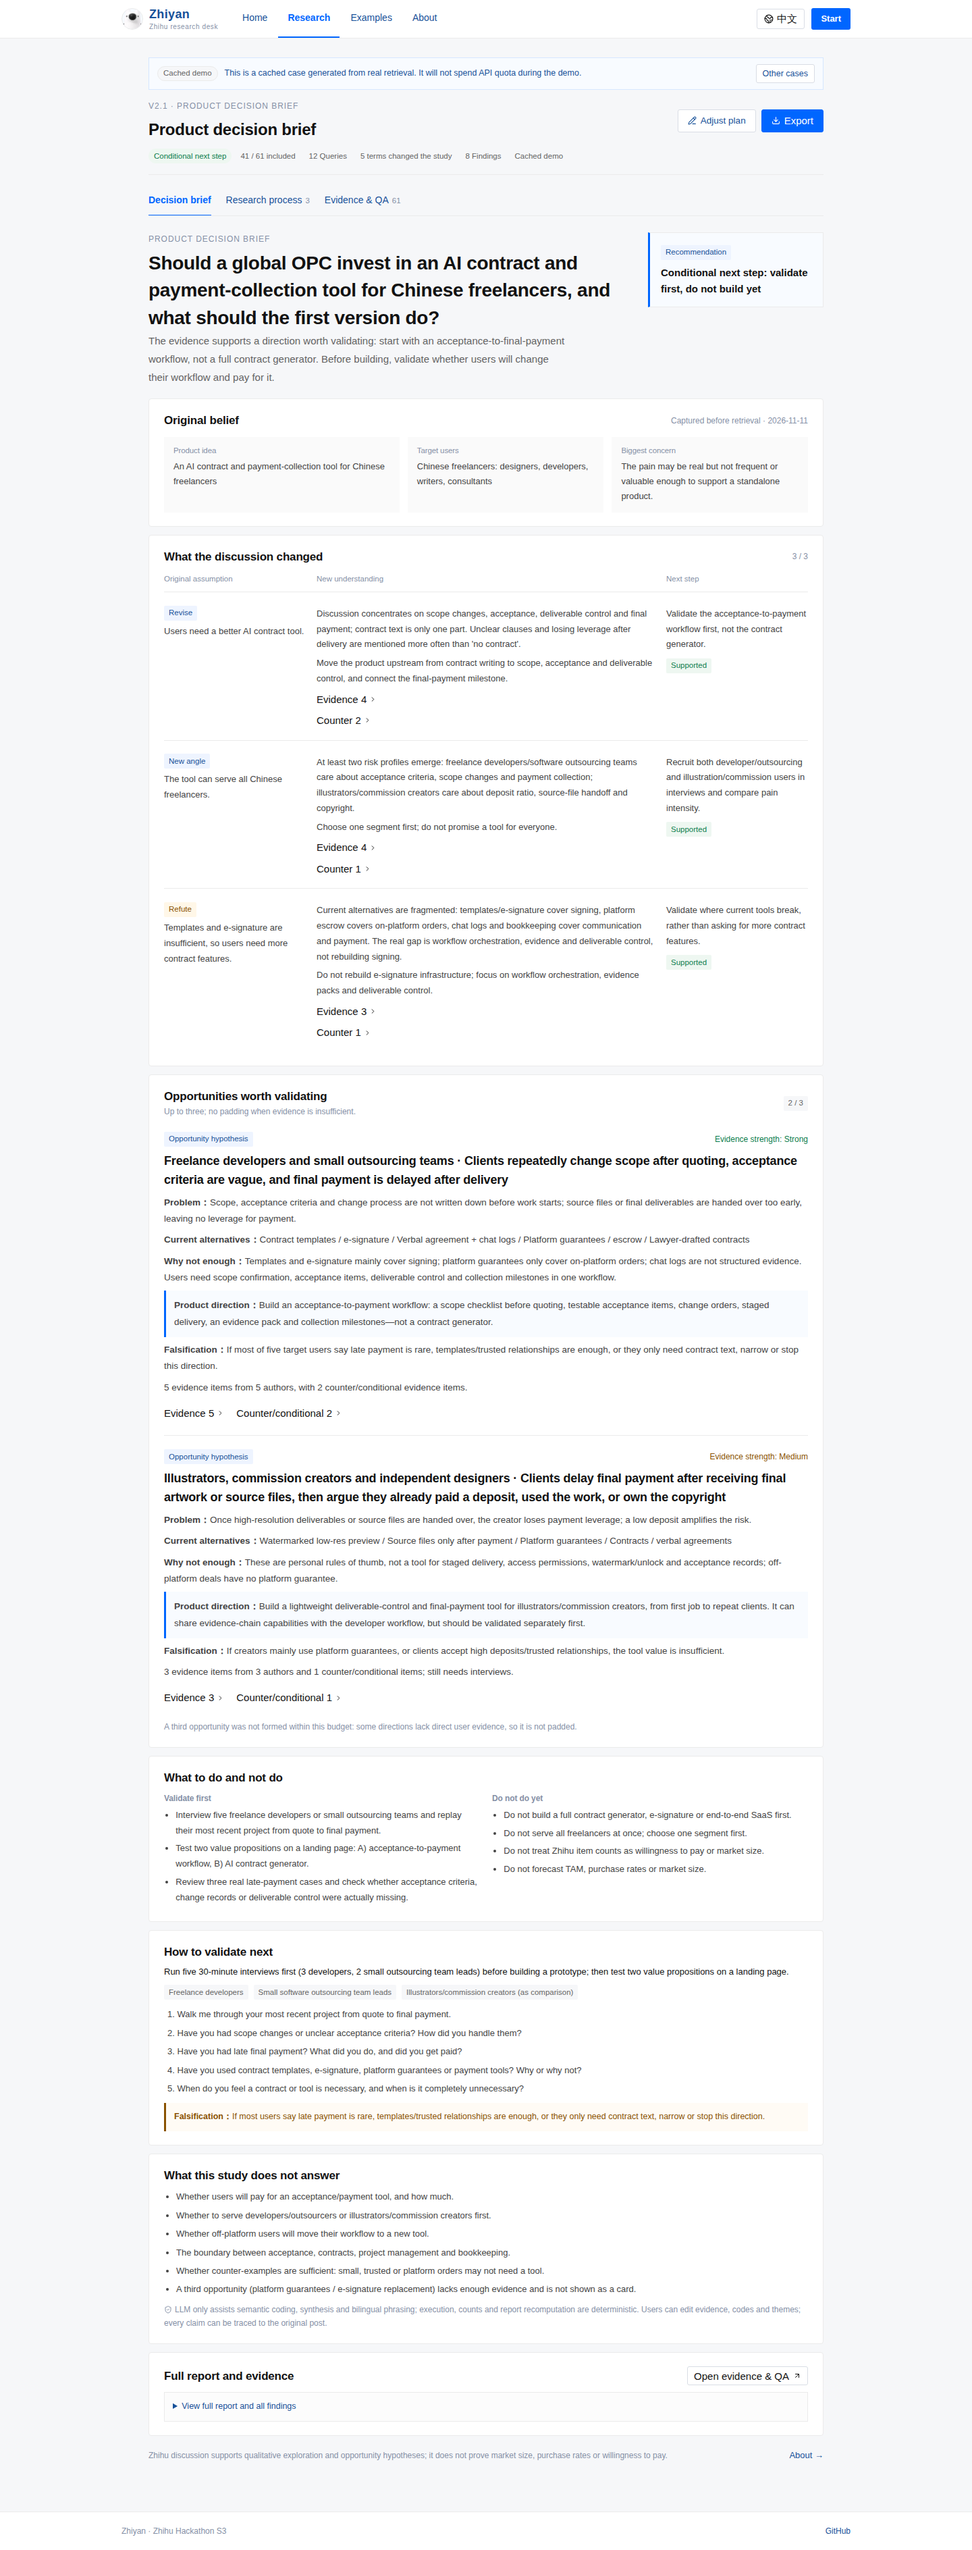
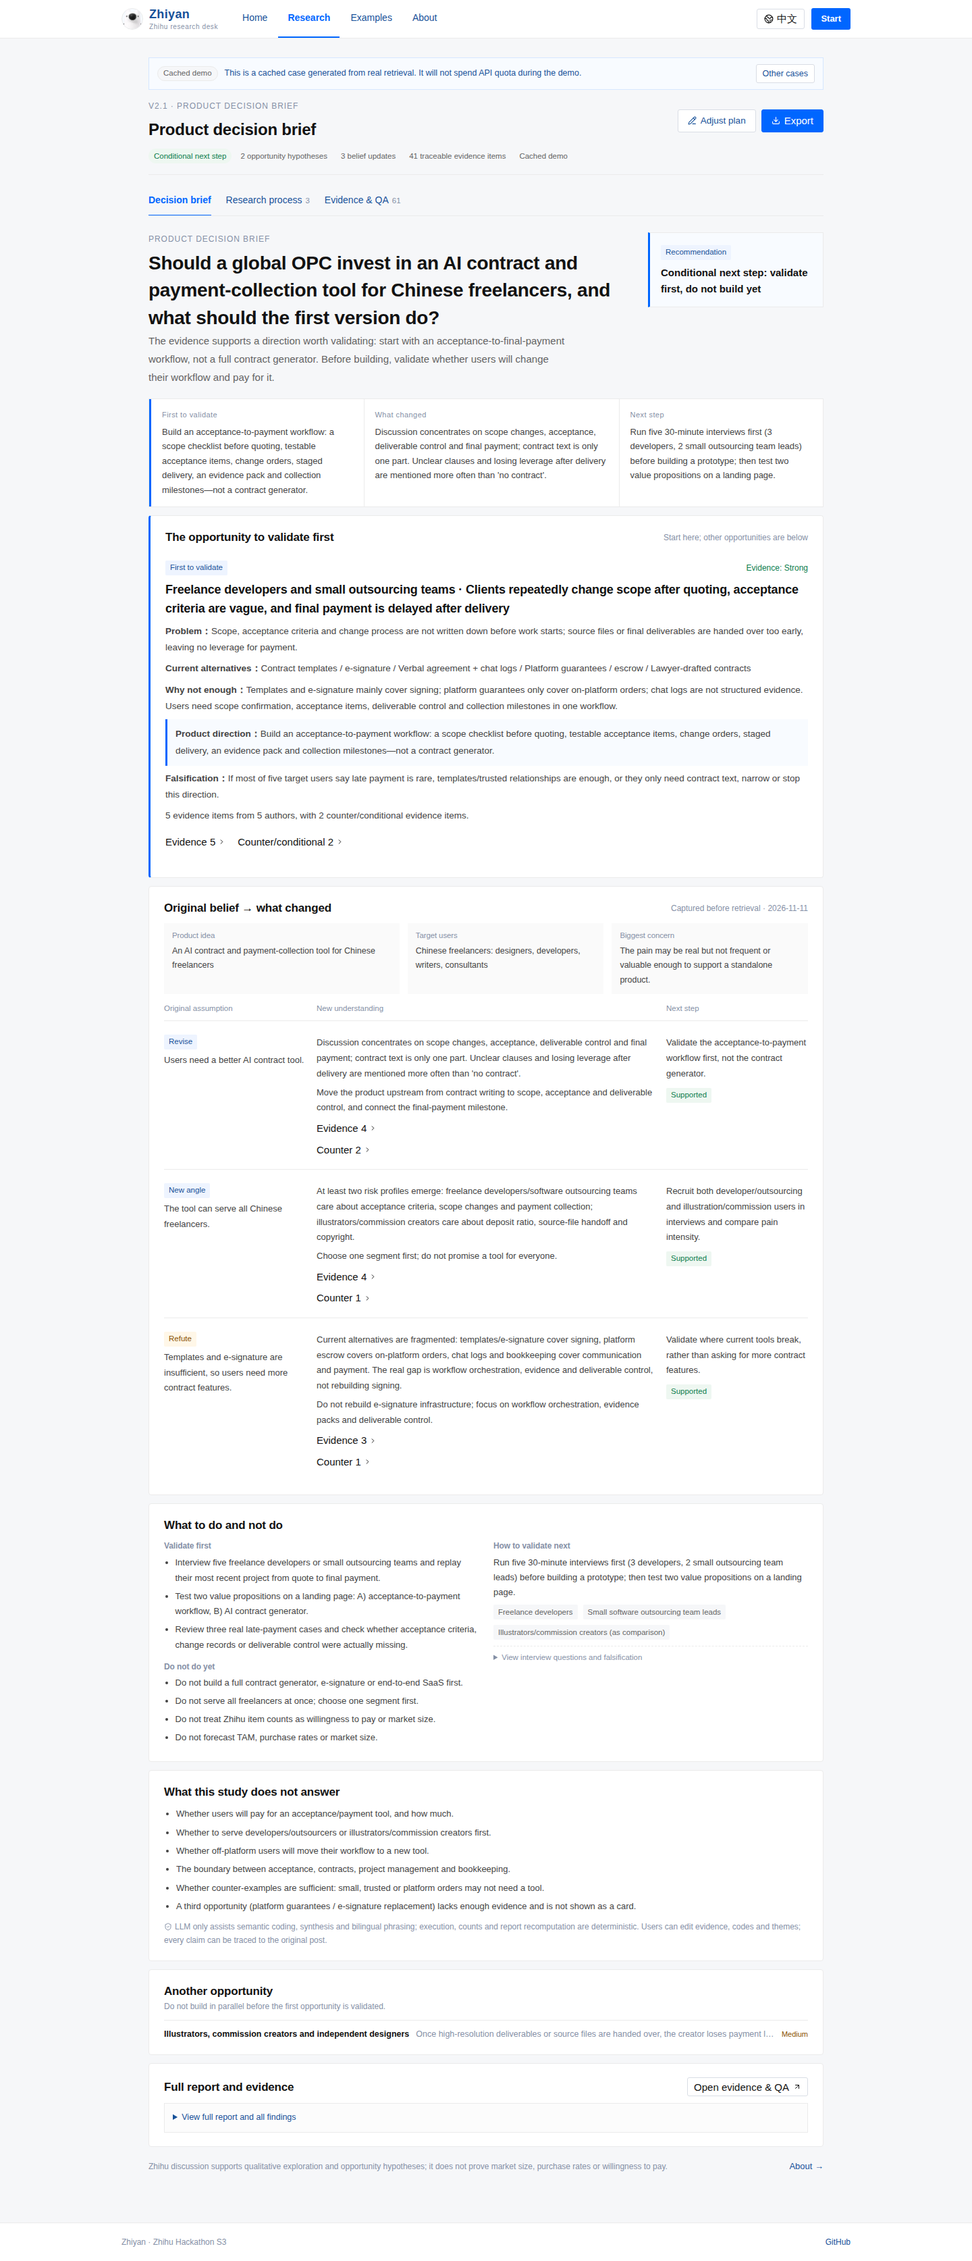
Improve V2.1 information hierarchy for decision makers
- Put a three-cell glance strip above the fold: what to validate first,
  what changed, and the next validation step
- Promote the lead opportunity into the first content card; move the
  second opportunity into a collapsed section
- Merge original belief and belief updates into one compact block
- Merge do/do-not and next validation into one action block
- Demote research metrics from the page header to process/evidence tabs
- Update screenshots and acceptance notes

diff --git a/app/workbench/views-v21.tsx b/app/workbench/views-v21.tsx
@@ -67,10 +67,36 @@ function EvidenceItem({ item, lang }: { item: BriefEvidence; lang: "zh" | "en" }
   );
 }
 
+function OpportunityCard({ card, brief, lang, lead = false }: { card: OpportunityHypothesisV21; brief: DecisionBriefV21; lang: "zh" | "en"; lead?: boolean }) {
+  return (
+    <article className={`v21-opportunity${lead ? " is-lead" : ""}`} data-testid="v21-opportunity">
+      <div className="v21-opportunity-head">
+        <span className="v2-tag v2-tag-blue">{lead ? local(lang, "最值得先验证", "First to validate") : local(lang, "机会假设", "Opportunity hypothesis")}</span>
+        <span className={`v21-strength ${card.evidenceStrength}`}>{local(lang, "证据强度", "Evidence")}: {strengthLabel(lang, card.evidenceStrength)}</span>
+      </div>
+      <h3>{lang === "zh" ? `${card.targetUserZh} · ${card.scenarioZh}` : `${card.targetUserEn} · ${card.scenarioEn}`}</h3>
+      <p><b>{local(lang, "问题", "Problem")}：</b>{lang === "zh" ? card.problemZh : card.problemEn}</p>
+      <p><b>{local(lang, "现有替代方案", "Current alternatives")}：</b>{(lang === "zh" ? card.currentAlternativesZh : card.currentAlternativesEn).join(" / ")}</p>
+      <p><b>{local(lang, "为什么仍不够", "Why not enough")}：</b>{lang === "zh" ? card.whyAlternativesInsufficientZh : card.whyAlternativesInsufficientEn}</p>
+      <p className="v21-direction"><b>{local(lang, "可能的产品方向", "Product direction")}：</b>{lang === "zh" ? card.productDirectionZh : card.productDirectionEn}</p>
+      <p><b>{local(lang, "证伪条件", "Falsification")}：</b>{lang === "zh" ? card.falsificationSignalZh : card.falsificationSignalEn}</p>
+      <p className="v2-mini v2-muted">{lang === "zh" ? card.strengthReasonZh : card.strengthReasonEn}</p>
+      <div className="v21-evidence-row">
+        <EvidenceList brief={brief} ids={card.evidenceIds} lang={lang} title={local(lang, "支持证据", "Evidence")} />
+        <EvidenceList brief={brief} ids={card.counterIds} lang={lang} title={local(lang, "反例/条件", "Counter/conditional")} />
+      </div>
+    </article>
+  );
+}
+
 export function DecisionBriefView({ brief, study, onOpenEvidence }: { brief: DecisionBriefV21; study: StudyV2; onOpenEvidence: () => void }) {
   const { lang } = useLang();
   const beliefs = brief.beliefUpdates.slice(0, 3);
   const opportunities = brief.opportunities.filter((item) => !item.hidden).slice(0, 3);
+  const lead = opportunities[0];
+  const others = opportunities.slice(1);
+  const firstUpdate = beliefs[0];
+  const nextTest = lang === "zh" ? brief.nextValidation.cheapestTestZh : brief.nextValidation.cheapestTestEn;
   return (
     <div className="v2-stack">
       <section className="v21-brief-hero">
@@ -85,22 +111,40 @@ export function DecisionBriefView({ brief, study, onOpenEvidence }: { brief: Dec
         </div>
       </section>
 
-      <section className="v2-card v2-card-pad">
-        <div className="v2-between">
-          <h2 style={{ fontSize: 17 }}>{local(lang, "原来的想法", "Original belief")}</h2>
-          <span className="v2-mini v2-muted">{local(lang, "检索前捕获", "Captured before retrieval")} · {brief.initialBelief.capturedAt.slice(0, 10)}</span>
+      <section className="v21-at-a-glance" data-testid="v21-glance">
+        <div>
+          <span className="v21-glance-label">{local(lang, "最值得先验证", "First to validate")}</span>
+          <strong>{lead ? (lang === "zh" ? lead.productDirectionZh : lead.productDirectionEn) : local(lang, "暂无足够证据", "Not enough evidence")}</strong>
         </div>
-        <div className="v21-belief-original">
-          <div><h4>{local(lang, "产品想法", "Product idea")}</h4><p>{lang === "zh" ? brief.initialBelief.productIdeaZh : brief.initialBelief.productIdeaEn}</p></div>
-          <div><h4>{local(lang, "目标人群", "Target users")}</h4><p>{(lang === "zh" ? brief.initialBelief.targetUsersZh : brief.initialBelief.targetUsersEn).join(" / ")}</p></div>
-          <div><h4>{local(lang, "最担心", "Biggest concern")}</h4><p>{lang === "zh" ? brief.initialBelief.concernsZh[0] : brief.initialBelief.concernsEn[0]}</p></div>
+        <div>
+          <span className="v21-glance-label">{local(lang, "讨论改变了什么", "What changed")}</span>
+          <strong>{firstUpdate ? (lang === "zh" ? firstUpdate.newUnderstandingZh : firstUpdate.newUnderstandingEn) : "—"}</strong>
+        </div>
+        <div>
+          <span className="v21-glance-label">{local(lang, "下一步", "Next step")}</span>
+          <strong>{nextTest}</strong>
         </div>
       </section>
 
+      {lead ? (
+        <section className="v2-card v2-card-pad v21-lead-opp">
+          <div className="v2-between" style={{ marginBottom: 2 }}>
+            <h2 style={{ fontSize: 17 }}>{local(lang, "现在最值得验证的机会", "The opportunity to validate first")}</h2>
+            <span className="v2-mini v2-muted">{local(lang, "先看这一张，其他机会在下方", "Start here; other opportunities are below")}</span>
+          </div>
+          <OpportunityCard card={lead} brief={brief} lang={lang} lead />
+        </section>
+      ) : null}
+
       <section className="v2-card v2-card-pad">
         <div className="v2-between">
-          <h2 style={{ fontSize: 17 }}>{local(lang, "讨论带来的新理解", "What the discussion changed")}</h2>
-          <span className="v2-mini v2-muted">{beliefs.length} / 3</span>
+          <h2 style={{ fontSize: 17 }}>{local(lang, "原来的想法 → 讨论后的新理解", "Original belief → what changed")}</h2>
+          <span className="v2-mini v2-muted">{local(lang, "检索前捕获", "Captured before retrieval")} · {brief.initialBelief.capturedAt.slice(0, 10)}</span>
+        </div>
+        <div className="v21-belief-original v21-original-compact">
+          <div><h4>{local(lang, "产品想法", "Product idea")}</h4><p>{lang === "zh" ? brief.initialBelief.productIdeaZh : brief.initialBelief.productIdeaEn}</p></div>
+          <div><h4>{local(lang, "目标人群", "Target users")}</h4><p>{(lang === "zh" ? brief.initialBelief.targetUsersZh : brief.initialBelief.targetUsersEn).join(" / ")}</p></div>
+          <div><h4>{local(lang, "最担心", "Biggest concern")}</h4><p>{lang === "zh" ? brief.initialBelief.concernsZh[0] : brief.initialBelief.concernsEn[0]}</p></div>
         </div>
         <div className="v21-belief-table">
           <div className="v21-belief-head"><span>{local(lang, "原来的假设", "Original assumption")}</span><span>{local(lang, "新理解", "New understanding")}</span><span>{local(lang, "所以下一步", "Next step")}</span></div>
@@ -120,53 +164,29 @@ export function DecisionBriefView({ brief, study, onOpenEvidence }: { brief: Dec
       </section>
 
       <section className="v2-card v2-card-pad">
-        <div className="v2-between">
-          <div>
-            <h2 style={{ fontSize: 17 }}>{local(lang, "值得验证的机会", "Opportunities worth validating")}</h2>
-            <p className="v2-mini v2-muted">{local(lang, "最多三张；证据不足不凑数。", "Up to three; no padding when evidence is insufficient.")}</p>
-          </div>
-          <span className="v2-tag">{opportunities.length} / 3</span>
-        </div>
-        {opportunities.map((card) => (
-          <article className="v21-opportunity" key={card.id} data-testid="v21-opportunity">
-            <div className="v21-opportunity-head">
-              <span className="v2-tag v2-tag-blue">{local(lang, "机会假设", "Opportunity hypothesis")}</span>
-              <span className={`v21-strength ${card.evidenceStrength}`}>{local(lang, "证据强度", "Evidence strength")}: {strengthLabel(lang, card.evidenceStrength)}</span>
-            </div>
-            <h3>{lang === "zh" ? `${card.targetUserZh} · ${card.scenarioZh}` : `${card.targetUserEn} · ${card.scenarioEn}`}</h3>
-            <p><b>{local(lang, "问题", "Problem")}：</b>{lang === "zh" ? card.problemZh : card.problemEn}</p>
-            <p><b>{local(lang, "现有替代方案", "Current alternatives")}：</b>{(lang === "zh" ? card.currentAlternativesZh : card.currentAlternativesEn).join(" / ")}</p>
-            <p><b>{local(lang, "为什么仍不够", "Why not enough")}：</b>{lang === "zh" ? card.whyAlternativesInsufficientZh : card.whyAlternativesInsufficientEn}</p>
-            <p className="v21-direction"><b>{local(lang, "可能的产品方向", "Product direction")}：</b>{lang === "zh" ? card.productDirectionZh : card.productDirectionEn}</p>
-            <p><b>{local(lang, "证伪条件", "Falsification")}：</b>{lang === "zh" ? card.falsificationSignalZh : card.falsificationSignalEn}</p>
-            <p className="v2-mini v2-muted">{lang === "zh" ? card.strengthReasonZh : card.strengthReasonEn}</p>
-            <div className="v21-evidence-row">
-              <EvidenceList brief={brief} ids={card.evidenceIds} lang={lang} title={local(lang, "支持证据", "Evidence")} />
-              <EvidenceList brief={brief} ids={card.counterIds} lang={lang} title={local(lang, "反例/条件", "Counter/conditional")} />
-            </div>
-          </article>
-        ))}
-        {opportunities.length < 3 ? <p className="v2-mini v2-muted">{local(lang, "本预算内未形成第三个机会：部分方向的直接用户证据不足，不凑数。", "A third opportunity was not formed within this budget: some directions lack direct user evidence, so it is not padded.")}</p> : null}
-      </section>
-
-      <section className="v2-card v2-card-pad">
         <h2 style={{ fontSize: 17 }}>{local(lang, "建议做什么，不做什么", "What to do and not do")}</h2>
-        <div className="v21-do-grid">
-          <div><h4>{local(lang, "先验证", "Validate first")}</h4><ul>{brief.validateFirstZh.length > 0 ? (lang === "zh" ? brief.validateFirstZh : brief.validateFirstEn).map((item) => <li key={item}>{item}</li>) : <li>—</li>}</ul></div>
-          <div><h4>{local(lang, "暂时不要做", "Do not do yet")}</h4><ul>{(lang === "zh" ? brief.doNotDoZh : brief.doNotDoEn).map((item) => <li key={item}>{item}</li>)}</ul></div>
+        <div className="v21-action-grid">
+          <div>
+            <h4>{local(lang, "先验证", "Validate first")}</h4>
+            <ul>{brief.validateFirstZh.length > 0 ? (lang === "zh" ? brief.validateFirstZh : brief.validateFirstEn).map((item) => <li key={item}>{item}</li>) : <li>—</li>}</ul>
+            <h4 style={{ marginTop: 12 }}>{local(lang, "暂时不要做", "Do not do yet")}</h4>
+            <ul>{(lang === "zh" ? brief.doNotDoZh : brief.doNotDoEn).map((item) => <li key={item}>{item}</li>)}</ul>
+          </div>
+          <div>
+            <h4>{local(lang, "下一步怎么验证", "How to validate next")}</h4>
+            <p className="v2-small">{nextTest}</p>
+            <div className="v2-row" style={{ marginTop: 7 }}>
+              {(lang === "zh" ? brief.nextValidation.personasZh : brief.nextValidation.personasEn).map((item) => <span className="v2-tag" key={item}>{item}</span>)}
+            </div>
+            <details className="v21-details" style={{ marginTop: 9 }}>
+              <summary>{local(lang, "查看访谈问题与证伪条件", "View interview questions and falsification")}</summary>
+              <ol className="v21-questions">
+                {(lang === "zh" ? brief.nextValidation.questionsZh : brief.nextValidation.questionsEn).map((item) => <li key={item}>{item}</li>)}
+              </ol>
+              <div className="v21-falsify"><b>{local(lang, "证伪条件", "Falsification")}：</b>{lang === "zh" ? brief.nextValidation.falsificationZh : brief.nextValidation.falsificationEn}</div>
+            </details>
+          </div>
         </div>
-      </section>
-
-      <section className="v2-card v2-card-pad">
-        <h2 style={{ fontSize: 17 }}>{local(lang, "下一步怎么验证", "How to validate next")}</h2>
-        <p className="v2-small" style={{ marginTop: 6 }}>{lang === "zh" ? brief.nextValidation.cheapestTestZh : brief.nextValidation.cheapestTestEn}</p>
-        <div className="v2-row" style={{ marginTop: 8 }}>
-          {(lang === "zh" ? brief.nextValidation.personasZh : brief.nextValidation.personasEn).map((item) => <span className="v2-tag" key={item}>{item}</span>)}
-        </div>
-        <ol className="v21-questions">
-          {(lang === "zh" ? brief.nextValidation.questionsZh : brief.nextValidation.questionsEn).map((item) => <li key={item}>{item}</li>)}
-        </ol>
-        <div className="v21-falsify"><b>{local(lang, "证伪条件", "Falsification")}：</b>{lang === "zh" ? brief.nextValidation.falsificationZh : brief.nextValidation.falsificationEn}</div>
       </section>
 
       <section className="v2-card v2-card-pad v21-unanswered">
@@ -177,6 +197,23 @@ export function DecisionBriefView({ brief, study, onOpenEvidence }: { brief: Dec
           {lang === "zh" ? brief.aiDisclosureZh : brief.aiDisclosureEn}
         </div>
       </section>
+
+      {others.length > 0 ? (
+        <section className="v2-card v2-card-pad">
+          <h2 style={{ fontSize: 17 }}>{local(lang, "另一个机会方向", "Another opportunity")}</h2>
+          <p className="v2-mini v2-muted">{local(lang, "第一机会验证通过前，不并行开发。", "Do not build in parallel before the first opportunity is validated.")}</p>
+          {others.map((card) => (
+            <details className="v21-other-opp" key={card.id}>
+              <summary>
+                <b>{lang === "zh" ? card.targetUserZh : card.targetUserEn}</b>
+                <span>{lang === "zh" ? card.problemZh : card.problemEn}</span>
+                <em className={`v21-strength ${card.evidenceStrength}`}>{strengthLabel(lang, card.evidenceStrength)}</em>
+              </summary>
+              <OpportunityCard card={card} brief={brief} lang={lang} />
+            </details>
+          ))}
+        </section>
+      ) : null}
 
       <section className="v2-card v2-card-pad">
         <div className="v2-between">

diff --git a/app/v2.css b/app/v2.css
@@ -568,3 +568,32 @@
   .v2-home-brief-head { flex-direction: column; gap: 6px; }
   .v2-home-brief-head .v2-row { justify-content: flex-start; }
 }
+
+/* V2.1 hierarchy: glance strip + lead opportunity + action grid */
+.v21-at-a-glance { display: grid; grid-template-columns: 1.05fr 1.25fr 1fr; border: 1px solid var(--z-line); background: #fff; }
+.v21-at-a-glance > div { padding: 14px 16px; border-left: 1px solid var(--z-line); min-width: 0; }
+.v21-at-a-glance > div:first-child { border-left: 3px solid var(--z-blue); }
+.v21-glance-label { display: block; color: var(--z-muted); font-size: 11px; letter-spacing: .04em; margin-bottom: 5px; }
+.v21-at-a-glance strong { display: block; font-size: 13px; line-height: 1.65; color: var(--z-ink-2); font-weight: 500; }
+.v21-lead-opp { border-left: 3px solid var(--z-blue); }
+.v21-original-compact { margin-top: 10px; }
+.v21-original-compact > div { background: #fafafa; padding: 10px 12px; }
+.v21-original-compact p { font-size: 12.5px; }
+.v21-action-grid { display: grid; grid-template-columns: 1fr 1fr; gap: 22px; margin-top: 10px; }
+.v21-action-grid h4 { font-size: 12px; color: var(--z-muted); margin: 0 0 5px; }
+.v21-action-grid ul { margin: 0 0 4px; padding-left: 1.1em; }
+.v21-action-grid li { font-size: 13px; color: var(--z-ink-2); line-height: 1.75; margin: 4px 0; }
+.v21-action-grid .v2-small { font-size: 13px; color: var(--z-ink-2); }
+.v21-other-opp { border-top: 1px solid var(--z-line); margin-top: 10px; padding-top: 10px; }
+.v21-other-opp summary { display: flex; align-items: baseline; gap: 10px; cursor: pointer; color: var(--z-link); font-size: 12.5px; line-height: 1.6; }
+.v21-other-opp summary b { color: var(--z-ink); font-weight: 600; }
+.v21-other-opp summary span { color: var(--z-muted); overflow: hidden; text-overflow: ellipsis; white-space: nowrap; flex: 1; }
+.v21-other-opp summary em { font-style: normal; color: var(--z-muted); font-size: 11px; }
+.v21-other-opp .v21-opportunity { border-top: 0; padding-bottom: 0; }
+@media (max-width: 920px) {
+  .v21-at-a-glance { grid-template-columns: 1fr; }
+  .v21-at-a-glance > div { border-left: 0; border-top: 1px solid var(--z-line); }
+  .v21-at-a-glance > div:first-child { border-top: 0; }
+  .v21-action-grid { grid-template-columns: 1fr; gap: 14px; }
+  .v21-other-opp summary span { white-space: normal; }
+}

diff --git a/app/workbench/page.tsx b/app/workbench/page.tsx
@@ -244,10 +244,9 @@ function Workbench() {
           <span className={`v2-badge ${brief.recommendation === "conditional_proceed" ? "v2-badge-fit" : brief.recommendation === "hold" ? "v2-badge-partial" : "v2-badge-mismatch"}`}>
             {brief.recommendation === "conditional_proceed" ? (lang === "zh" ? "有条件下一步" : "Conditional next step") : brief.recommendation}
           </span>
-          <span className="v2-tag">{lang === "zh" ? `纳入 ${study.sample.filter((item) => item.included).length} / ${study.sample.length}` : `${study.sample.filter((item) => item.included).length} / ${study.sample.length} included`}</span>
-          <span className="v2-tag">{study.runs.length} {t("common.queries")}</span>
-          <span className="v2-tag">{brief.highImpactTerms.length} {lang === "zh" ? "个改变方向的词" : "terms changed the study"}</span>
-          <span className="v2-tag">{study.findings.filter((finding) => !finding.hidden).length} {t("common.findings")}</span>
+          <span className="v2-tag">{brief.opportunities.filter((item) => !item.hidden).length} {lang === "zh" ? "个机会假设" : "opportunity hypotheses"}</span>
+          <span className="v2-tag">{brief.beliefUpdates.length} {lang === "zh" ? "条认知更新" : "belief updates"}</span>
+          <span className="v2-tag">{study.sample.filter((item) => item.included).length} {lang === "zh" ? "条可回查证据" : "traceable evidence items"}</span>
           <span className="v2-tag">{study.demo ? t("common.demo") : t("common.live")}</span>
         </div>
       </header>

diff --git a/docs/v2.1/acceptance-checklist.md b/docs/v2.1/acceptance-checklist.md
@@ -14,7 +14,8 @@
 - [x] 默认进入决策简报。
 - [x] 完整报告不作为第四个 Tab，在决策简报内展开，并由导出按钮下载。
 - [x] 调整计划、导出在右上角。
-- [x] 决策简报第一屏：原想法 → 新理解 → 机会 → 建议 → 下一步。
+- [x] 决策简报第一屏：建议 → 三格速览（先验证什么/讨论改变什么/下一步）→ 第一机会卡 → 原想法与新理解。
+- [x] 研究指标（查询数、关键词数、发现数）从页面头部下移到研究过程/证据质检，首屏只保留机会/认知/可回查证据。
 - [x] 原想法 vs 新理解最多 3 行。
 - [x] 机会卡最多 3 张；主案例 2 张，明确未凑第三张。
 - [x] “这份研究没有回答的问题”是一等模块。

diff --git a/README.md b/README.md
@@ -14,7 +14,7 @@
 
 ## 它解决什么
 
-V2.1 默认打开的不是研究日志，而是**决策简报**。它按顺序回答：
+V2.1 默认打开的不是研究日志，而是**决策简报**。首屏先给三格速览（先验证什么、讨论改变什么、下一步），再展开第一机会卡和认知更新。它按顺序回答：
 
 1. 我原来的想法是什么（检索前捕获，不允许事后倒写）。
 2. 讨论让问题理解发生了什么变化（最多 3 条认知更新）。
